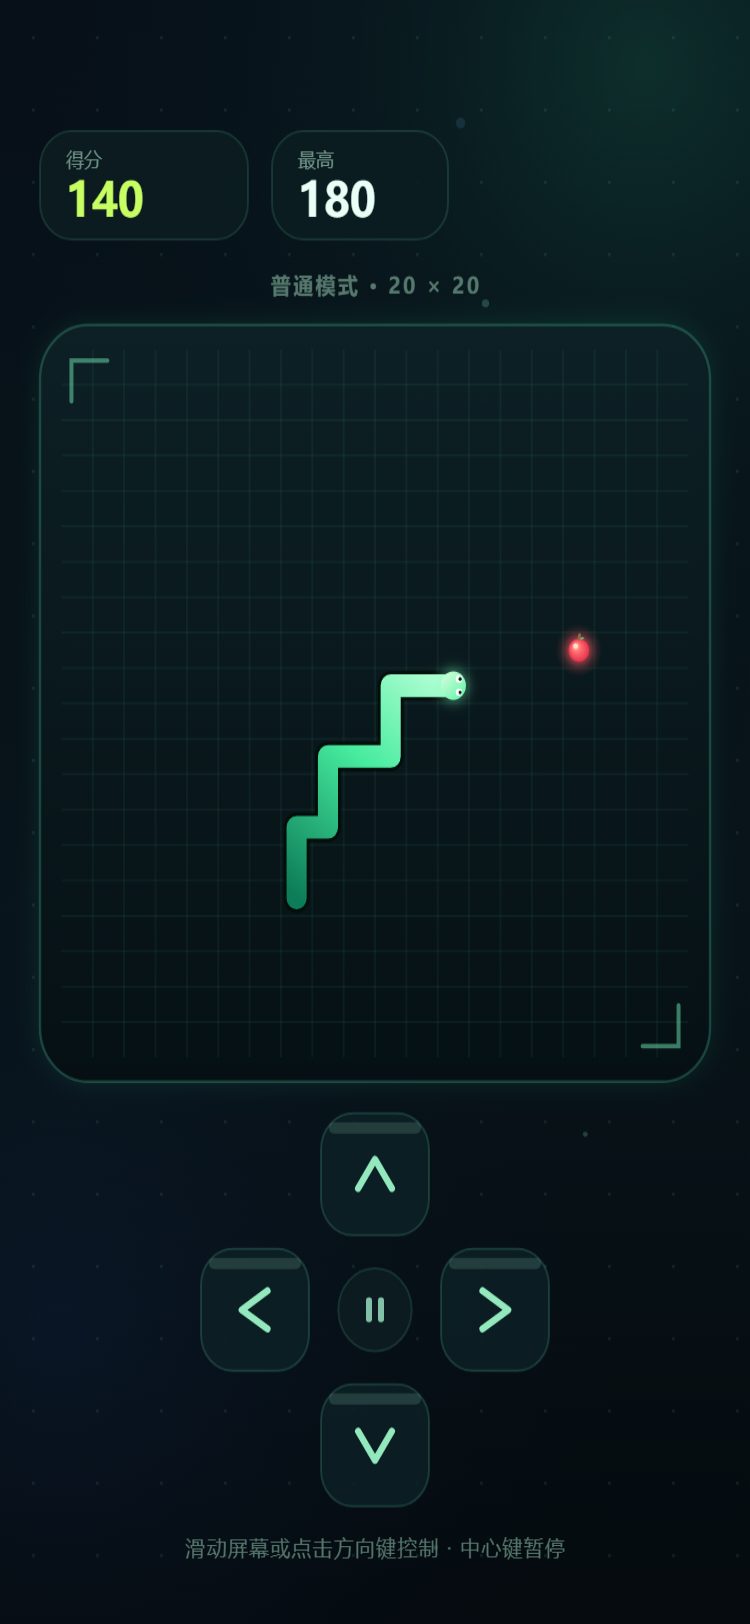
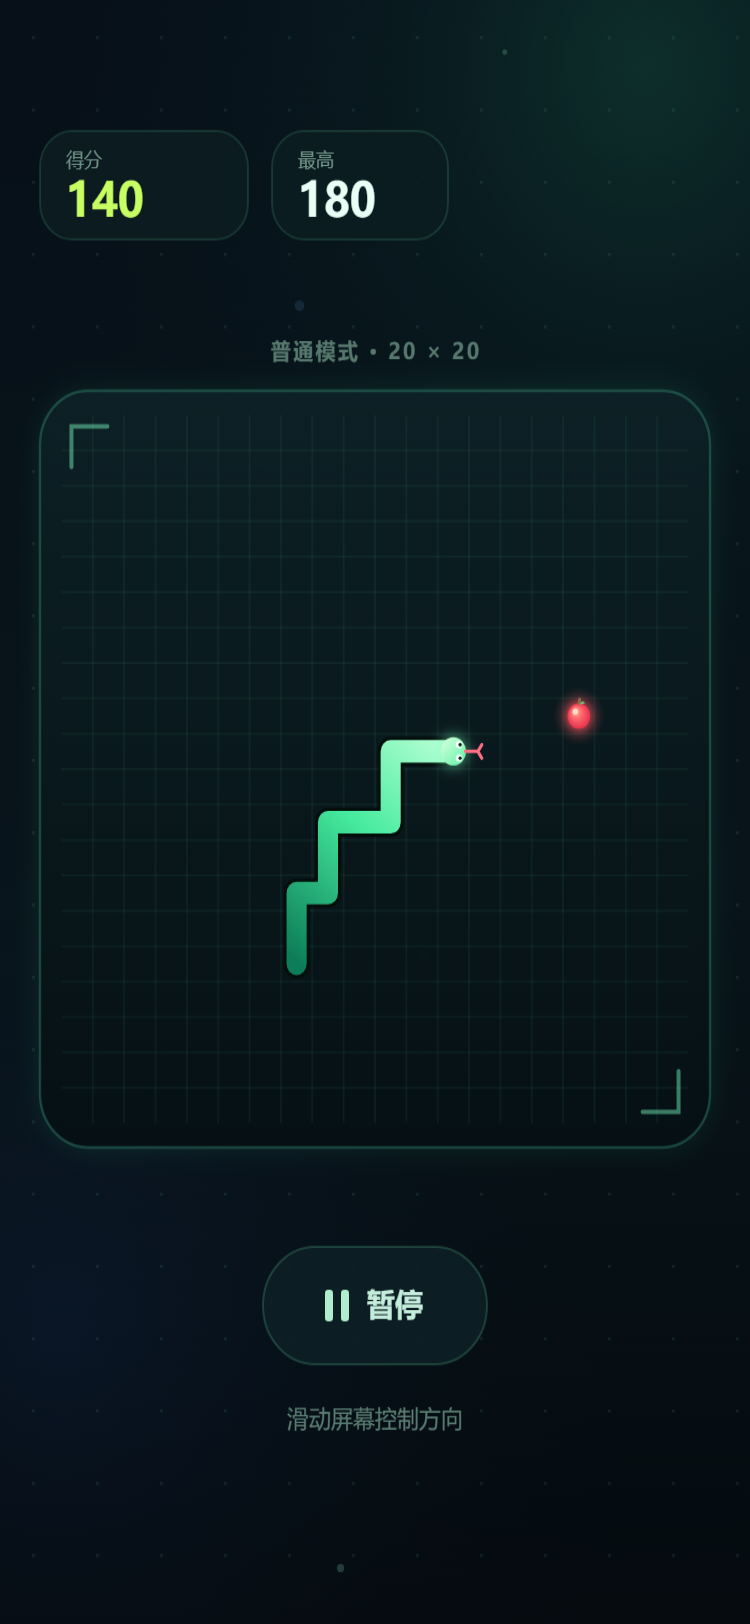
feat: switch snake controls to swipe-only
Remove the on-screen D-pad and replace it with a pause button plus a swipe hint. Update layout, controller hit areas, tests and preview screenshots.

diff --git a/miniprogram/game/renderer.js b/miniprogram/game/renderer.js
@@ -230,29 +230,32 @@
     var topbarY = getTopbarY(safeTop);
     var score = { x: pad, y: topbarY, w: 104, h: 48 };
     var best = { x: score.x + score.w + 12, y: topbarY, w: 88, h: 48 };
-    var boardTopBase = topbarY + 48 + 26;
-    var button = Math.min(54, Math.floor((width - pad * 2 - 12) / 3));
-    button = Math.max(44, button);
-    var gap = 6;
-    var dpadSize = button * 3 + gap * 2;
-    var maxBoard = height - boardTopBase - dpadSize - 68;
+    var topContent = topbarY + 48 + 26;
+    var pauseGap = 44;
+    var pauseHeight = 52;
+    var hintGap = 28;
+    var hintSpace = 18;
+    var bottomMargin = 28;
+    var controlsHeight = pauseGap + pauseHeight + hintGap + hintSpace;
+    var maxBoard = height - topContent - bottomMargin - controlsHeight;
     var boardSize = Math.max(200, Math.min(width - pad * 2, 335, maxBoard));
-    var groupHeight = boardSize + 14 + dpadSize;
-    var available = height - boardTopBase - 30;
-    var offset = clamp((available - groupHeight) * 0.35, 0, 70);
-    var boardTop = boardTopBase + offset;
+    var groupHeight = boardSize + controlsHeight;
+    var available = height - topContent - bottomMargin;
+    var offset = Math.max(0, (available - groupHeight) * 0.5);
+    var boardTop = topContent + offset;
     var board = {
       x: (width - boardSize) / 2,
       y: boardTop,
       w: boardSize,
       h: boardSize
     };
-    var dpadTop = boardTop + boardSize + 14;
-    var leftX = width / 2 - button * 1.5 - gap;
-    var centerX = width / 2 - button / 2;
-    var rightX = width / 2 + button / 2 + gap;
-    var row2Y = dpadTop + button + gap;
-    var row3Y = dpadTop + (button + gap) * 2;
+    var pauseWidth = 112;
+    var pause = {
+      x: (width - pauseWidth) / 2,
+      y: boardTop + boardSize + pauseGap,
+      w: pauseWidth,
+      h: pauseHeight
+    };
     return {
       width: width,
       height: height,
@@ -263,14 +266,8 @@
       best: best,
       board: board,
       modeY: boardTop - 14,
-      dpad: {
-        up: { x: centerX, y: dpadTop, w: button, h: button },
-        left: { x: leftX, y: row2Y, w: button, h: button },
-        center: { x: centerX, y: row2Y, w: button, h: button },
-        right: { x: rightX, y: row2Y, w: button, h: button },
-        down: { x: centerX, y: row3Y, w: button, h: button }
-      },
-      hintY: dpadTop + dpadSize + 22
+      pause: pause,
+      hintY: pause.y + pause.h + hintGap
     };
   }
 
@@ -497,35 +494,18 @@
     drawSpacedText(ctx, modeText, layout.width / 2, layout.modeY, 1.2);
   }
 
-  function drawDpad(ctx, layout) {
-    var dpad = layout.dpad;
-    drawDirectionButton(ctx, dpad.up, 0);
-    drawDirectionButton(ctx, dpad.left, -Math.PI / 2);
-    drawDirectionButton(ctx, dpad.right, Math.PI / 2);
-    drawDirectionButton(ctx, dpad.down, Math.PI);
-    var center = dpad.center;
-    var cx = center.x + center.w / 2;
-    var cy = center.y + center.h / 2;
-    ctx.beginPath();
-    ctx.arc(cx, cy, center.w * 0.34, 0, Math.PI * 2);
-    ctx.fillStyle = 'rgba(12,29,33,0.9)';
-    ctx.fill();
-    ctx.strokeStyle = 'rgba(120,255,196,0.13)';
-    ctx.lineWidth = 1;
-    ctx.stroke();
-    ctx.fillStyle = 'rgba(160,235,203,0.8)';
-    fillRoundRect(ctx, cx - 4.5, cy - 5.5, 3, 11, 1.4, 'rgba(160,235,203,0.8)');
-    fillRoundRect(ctx, cx + 1.5, cy - 5.5, 3, 11, 1.4, 'rgba(160,235,203,0.8)');
-  }
-
-  function drawDirectionButton(ctx, rect, angle) {
-    fillRoundRect(ctx, rect.x, rect.y, rect.w, rect.h, 16, 'rgba(13,32,37,0.88)');
-    strokeRoundRect(ctx, rect.x, rect.y, rect.w, rect.h, 16, 'rgba(120,255,196,0.16)', 1);
-    ctx.save();
-    ctx.globalAlpha = 0.14;
-    fillRoundRect(ctx, rect.x + 4, rect.y + 4, rect.w - 8, 5, 2.5, '#b8ffd9');
-    ctx.restore();
-    drawChevron(ctx, rect.x + rect.w / 2, rect.y + rect.h / 2, angle, rect.w * 0.34, 'rgba(162,255,206,0.9)');
+  function drawPauseControl(ctx, rect) {
+    fillRoundRect(ctx, rect.x, rect.y, rect.w, rect.h, rect.h / 2, 'rgba(13,32,37,0.9)');
+    strokeRoundRect(ctx, rect.x, rect.y, rect.w, rect.h, rect.h / 2, 'rgba(120,255,196,0.18)', 1);
+    var cx = rect.x + rect.w / 2;
+    var cy = rect.y + rect.h / 2;
+    fillRoundRect(ctx, cx - 25, cy - 7, 4, 14, 1.6, 'rgba(190,255,220,0.92)');
+    fillRoundRect(ctx, cx - 17, cy - 7, 4, 14, 1.6, 'rgba(190,255,220,0.92)');
+    ctx.textAlign = 'left';
+    ctx.textBaseline = 'middle';
+    ctx.font = font(14, 600);
+    ctx.fillStyle = 'rgba(213,255,235,0.92)';
+    ctx.fillText('暂停', cx - 4, cy + 1);
   }
 
   function clipBoard(ctx, grid) {
@@ -915,12 +895,14 @@
     drawSnake(ctx, game.snake, game.dir, grid, time);
     drawFood(ctx, grid, game.food, time);
     ctx.restore();
-    drawDpad(ctx, layout);
-    ctx.textAlign = 'center';
-    ctx.textBaseline = 'alphabetic';
-    ctx.font = font(10, 500);
-    ctx.fillStyle = 'rgba(100,137,123,0.85)';
-    drawSpacedText(ctx, '滑动屏幕或点击方向键控制 · 中心键暂停', layout.width / 2, layout.hintY, 0.6);
+    if (view.scene === 'playing') {
+      drawPauseControl(ctx, layout.pause);
+      ctx.textAlign = 'center';
+      ctx.textBaseline = 'alphabetic';
+      ctx.font = font(11, 500);
+      ctx.fillStyle = 'rgba(100,137,123,0.9)';
+      ctx.fillText('滑动屏幕控制方向', layout.width / 2, layout.hintY);
+    }
   }
 
   function draw(ctx, view, width, height, time, options) {

diff --git a/tests/renderer.test.js b/tests/renderer.test.js
@@ -84,19 +84,16 @@ test('小屏菜单不会溢出', () => {
   assert.ok(layout.footerY === null || layout.footerY < 568);
 });
 
-test('游戏布局中棋盘、状态卡和方向键都可用', () => {
+test('游戏布局中棋盘、状态卡和暂停按钮都可用', () => {
   const layout = Renderer.getLayout(375, 812, 'playing', 44);
   assert.ok(isInside(layout.board, 375, 812));
   assert.ok(isInside(layout.score, 375, 812));
   assert.ok(isInside(layout.best, 375, 812));
   assert.ok(layout.best.x + layout.best.w < 250, '状态卡应避开右上角胶囊按钮');
-  assert.ok(isInside(layout.dpad.up, 375, 812));
-  assert.ok(isInside(layout.dpad.left, 375, 812));
-  assert.ok(isInside(layout.dpad.center, 375, 812));
-  assert.ok(isInside(layout.dpad.right, 375, 812));
-  assert.ok(isInside(layout.dpad.down, 375, 812));
-  assert.ok(layout.dpad.up.y < layout.dpad.left.y);
-  assert.ok(layout.dpad.left.y === layout.dpad.center.y);
+  assert.ok(isInside(layout.pause, 375, 812));
+  assert.ok(layout.pause.y > layout.board.y + layout.board.h);
+  assert.ok(layout.hintY > layout.pause.y + layout.pause.h);
+  assert.equal(layout.dpad, undefined);
   assert.ok(layout.hintY < 812);
 });
 
@@ -104,14 +101,14 @@ test('小屏游戏布局不会溢出', () => {
   const layout = Renderer.getLayout(375, 667, 'playing', 44);
   assert.ok(layout.board.w >= 200);
   assert.ok(isInside(layout.board, 375, 667));
-  assert.ok(isInside(layout.dpad.down, 375, 667));
+  assert.ok(isInside(layout.pause, 375, 667));
   assert.ok(layout.hintY < 667);
 });
 
 test('320×568 的游戏布局也能完整放下', () => {
   const layout = Renderer.getLayout(320, 568, 'playing', 24);
   assert.ok(isInside(layout.board, 320, 568));
-  assert.ok(isInside(layout.dpad.down, 320, 568));
+  assert.ok(isInside(layout.pause, 320, 568));
   assert.ok(layout.hintY < 568);
   assert.ok(layout.best.x + layout.best.w < 223, '状态卡应避开右上角胶囊按钮');
 });

diff --git a/tests/controller.test.js b/tests/controller.test.js
@@ -51,7 +51,7 @@ test('菜单可以切换难度并持久化', () => {
   assert.equal(storage.get(Controller.STORAGE_DIFFICULTY), 'hard');
 });
 
-test('点击开始按钮进入游戏，点击方向键可以转向', () => {
+test('点击开始按钮进入游戏，滑动可以转向', () => {
   const controller = create();
   controller.setDifficulty('hard');
   const menu = Renderer.getLayout(375, 812, 'menu', 44);
@@ -61,8 +61,7 @@ test('点击开始按钮进入游戏，点击方向键可以转向', () => {
 
   const game = controller.getView().game;
   game.food = { x: 0, y: 0 };
-  const playing = Renderer.getLayout(375, 812, 'playing', 44);
-  assert.equal(tapRect(controller, playing, playing.dpad.up), true);
+  assert.equal(controller.swipe(0, -30), true);
   controller.update(120);
   assert.equal(game.snake[0].x, 10);
   assert.equal(game.snake[0].y, 9);
@@ -97,7 +96,7 @@ test('暂停、继续与切后台自动暂停', () => {
   const head = { ...game.snake[0] };
 
   const playing = Renderer.getLayout(375, 812, 'playing', 44);
-  assert.equal(tapRect(controller, playing, playing.dpad.center), true);
+  assert.equal(tapRect(controller, playing, playing.pause), true);
   assert.equal(controller.getScene(), 'paused');
 
   controller.update(1000);

diff --git a/miniprogram/game/controller.js b/miniprogram/game/controller.js
@@ -236,20 +236,7 @@
       }
 
       if (scene === SCENES.PLAYING) {
-        var pad = layout.dpad || {};
-        if (hit(pad.up, x, y)) {
-          return turn('up');
-        }
-        if (hit(pad.down, x, y)) {
-          return turn('down');
-        }
-        if (hit(pad.left, x, y)) {
-          return turn('left');
-        }
-        if (hit(pad.right, x, y)) {
-          return turn('right');
-        }
-        if (hit(pad.center, x, y)) {
+        if (hit(layout.pause, x, y)) {
           return pause();
         }
         return false;

diff --git a/README.md b/README.md
@@ -1,6 +1,6 @@
 # 贪吃蛇 · 微信小程序
 
-一个使用原生微信小程序（WXML / WXSS / Canvas 2D）实现的贪吃蛇小游戏：暗色霓虹视觉、三档难度、滑动或方向键操作、暂停、最高分本地持久化。
+一个使用原生微信小程序（WXML / WXSS / Canvas 2D）实现的贪吃蛇小游戏：暗色霓虹视觉、三档难度、滑动操作、暂停、最高分本地持久化。
 
 > 本仓库同时用于 dsh-superagent 的实训与自动化任务。本项目的全部逻辑不依赖后端与云开发，导入微信开发者工具即可运行。
 
@@ -15,7 +15,7 @@
 ## 功能
 
 - 20 × 20 棋盘，简单 / 普通 / 困难三档难度，速度随吃到的果实数量逐步加快。
-- 滑动屏幕或点击屏幕下方的方向键控制；转向队列最多缓存两步，禁止直接反向。
+- 滑动屏幕控制方向；转向队列最多缓存两步，禁止直接反向。
 - 暂停 / 继续、重新开始、返回主页；切到后台时自动暂停。
 - 最高分按难度保存在本地（`wx.setStorageSync`），破纪录时结算页显示“新纪录”。
 - Canvas 2D 绘制：发光果实、蛇身渐变与眼睛、开场演示、毛玻璃弹窗、轻量背景动效。
@@ -32,12 +32,12 @@
 ## 操作
 
 - 菜单：选择难度，点击“开始游戏”。
-- 游戏中：滑动屏幕，或点击方向键；方向键中心可暂停。
+- 游戏中：滑动屏幕控制方向；点击棋盘下方的暂停按钮暂停。
 - 暂停 / 结算：继续游戏、重新开始或返回主页。
 
 ## 浏览器预览
 
-直接打开 `preview/index.html` 即可交互（支持鼠标滑动、点击与键盘方向键、空格暂停、回车开始）：
+直接打开 `preview/index.html` 即可交互（鼠标滑动/点击；键盘方向键、空格暂停、回车开始为浏览器预览的开发便利）：
 
 - 无参数：可交互预览，最高分保存在浏览器 `localStorage`。
 - `?capture=menu|playing|paused|over`：渲染一张固定演示画面，便于截图与视觉回归。
